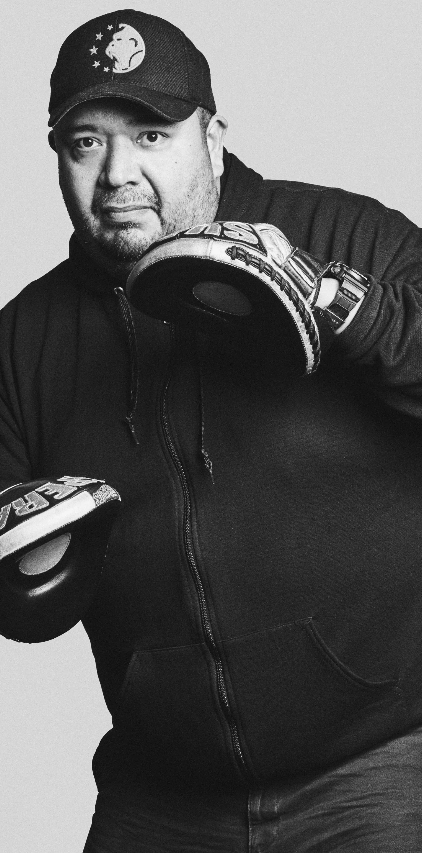
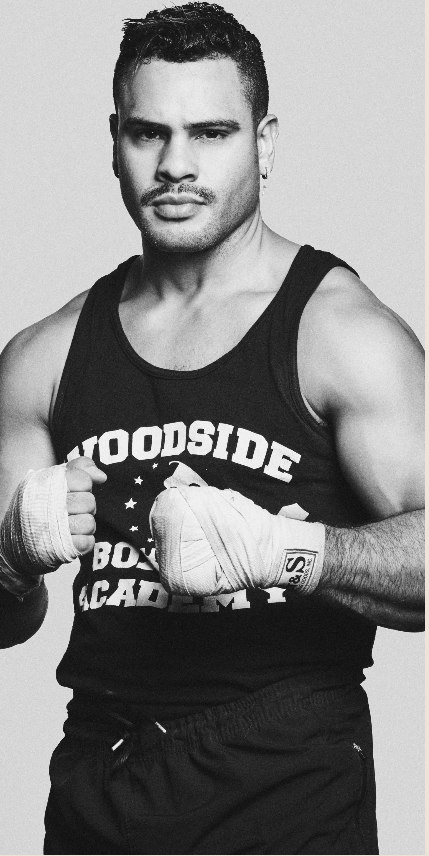
Fix coach photo assignments and update Frank Castillo portrait.
Remap all six coaches to the correct unique photos from the provided images, replacing the wrong Frank photo and removing the duplicated live-site Abel download.

diff --git a/src/data/assets.ts b/src/data/assets.ts
@@ -16,6 +16,6 @@ export const IMAGES = {
     'josh-bungalso': `${base}images/coaches/josh-bungalso.png`,
     edgar: `${base}images/coaches/edgar.png`,
     'frank-castillo': `${base}images/coaches/frank-castillo.png`,
-    'abel-gonzalez': `${base}images/coaches/abel-gonzalez.jpg`,
+    'abel-gonzalez': `${base}images/coaches/abel-gonzalez.png`,
   },
 } as const